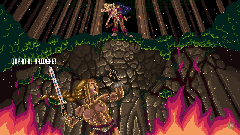
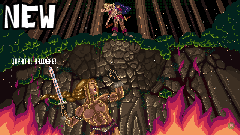
tweaks

Changed region(s): [[0.0, 0.0, 0.2333, 0.237]]

diff --git a/index.html b/index.html
@@ -91,6 +91,36 @@
 		<div id="media">
 			<iframe width="768" height="432" src="https://www.youtube.com/embed/Kl26pjRuY4A?showinfo=0&modestbranding=0" frameborder="0" encrypted-media" allowfullscreen></iframe>
 			<ul id="gallery">
+				<li>
+					<a id="screen_9" href="images/09.png" data-lightbox="images">
+						<img src="thumbs/09.png">
+					</a>
+				</li>
+				<li>
+					<a id="screen_10" href="images/10.png" data-lightbox="images">
+						<img src="thumbs/10.png">
+					</a>
+				</li>
+				<li>
+					<a id="screen_8" href="images/08.png" data-lightbox="images">
+						<img src="thumbs/08.png">
+					</a>
+				</li>
+				<li>
+					<a id="screen_7" href="images/07.png" data-lightbox="images">
+						<img src="thumbs/07.png">
+					</a>
+				</li>
+				<li>
+					<a id="screen_11" href="images/11.png" data-lightbox="images">
+						<img src="thumbs/11.png">
+					</a>
+				</li>
+				<li>
+					<a id="screen_12" href="images/12.png" data-lightbox="images">
+						<img src="thumbs/12.png">
+					</a>
+				</li>
 				<li id="rows">
 					<a id="screen_1" href="images/01.png" data-lightbox="images">
 						<!--<img id="new" src="images/new.png">-->
@@ -120,36 +150,6 @@
 				<li>
 					<a id="screen_6" href="images/06.png" data-lightbox="images">
 						<img src="thumbs/06.png">
-					</a>
-				</li>
-				<li>
-					<a id="screen_7" href="images/07.png" data-lightbox="images">
-						<img src="thumbs/07.png">
-					</a>
-				</li>
-				<li>
-					<a id="screen_8" href="images/08.png" data-lightbox="images">
-						<img src="thumbs/08.png">
-					</a>
-				</li>
-				<li>
-					<a id="screen_9" href="images/09.png" data-lightbox="images">
-						<img src="thumbs/09.png">
-					</a>
-				</li>
-				<li>
-					<a id="screen_10" href="images/10.png" data-lightbox="images">
-						<img src="thumbs/10.png">
-					</a>
-				</li>
-				<li>
-					<a id="screen_11" href="images/11.png" data-lightbox="images">
-						<img src="thumbs/11.png">
-					</a>
-				</li>
-				<li>
-					<a id="screen_12" href="images/12.png" data-lightbox="images">
-						<img src="thumbs/12.png">
 					</a>
 				</li>
 			</ul>

diff --git a/css/style.css b/css/style.css
@@ -56,7 +56,7 @@ body
 	float: right;
 	height: 128;
 	width: 128;
-	transform: rotate(25deg) scaleX(2.5) scaleY(2.5);  
+	transform: rotate(25deg) scaleX(2) scaleY(2);  
 	margin-right: 35%;
 	margin-top: 12%;
 }
